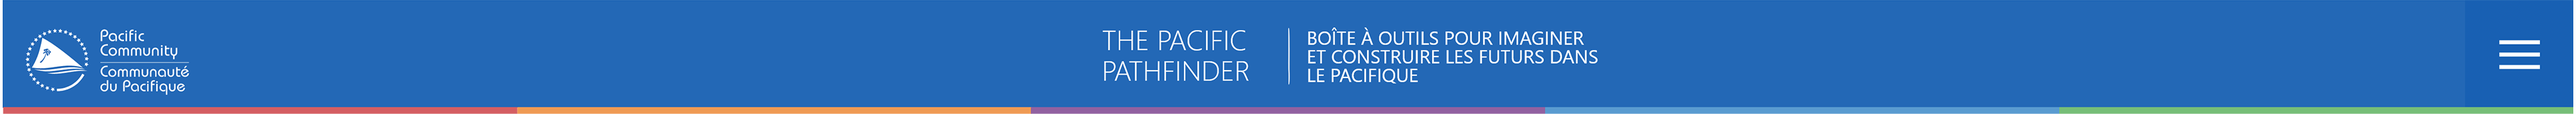
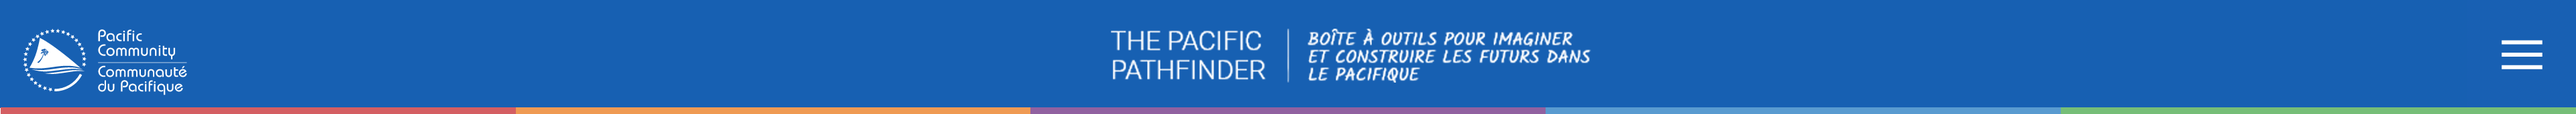
alterações navbar, intro, chap1

diff --git a/chap1/css/chapter-1-seven-case-study-2-1920-all-breakpoints.css b/chap1/css/chapter-1-seven-case-study-2-1920-all-breakpoints.css
@@ -139,7 +139,7 @@
   left: 602px;
   object-fit: cover;
   position: absolute;
-  top: 1091px;
+  top: 1100px;
   width: 46px;
 }
 
@@ -166,7 +166,7 @@
   left: 602px;
   object-fit: cover;
   position: absolute;
-  top: 1328px;
+  top: 1318px;
   width: 46px;
 }
 
@@ -175,7 +175,7 @@
   left: 602px;
   object-fit: cover;
   position: absolute;
-  top: 1396px;
+  top: 1381px;
   width: 46px;
 }
 
@@ -184,7 +184,7 @@
   left: 605px;
   object-fit: cover;
   position: absolute;
-  top: 1432px;
+  top: 1416px;
   width: 46px;
 }
 
@@ -193,7 +193,7 @@
   left: 602px;
   object-fit: cover;
   position: absolute;
-  top: 1290px;
+  top: 1280px;
   width: 46px;
 }
 
@@ -458,7 +458,7 @@
   left: 776px;
   object-fit: cover;
   position: absolute;
-  top: 1138px;
+  top: 1145px;
   width: 46px;
 }
 
@@ -467,7 +467,7 @@
   left: 776px;
   object-fit: cover;
   position: absolute;
-  top: 1237px;
+  top: 1230px;
   width: 46px;
 }
 
@@ -476,7 +476,7 @@
   left: 776px;
   object-fit: cover;
   position: absolute;
-  top: 1354px;
+  top: 1340px;
   width: 46px;
 }
 
@@ -485,7 +485,7 @@
   left: 776px;
   object-fit: cover;
   position: absolute;
-  top: 1514px;
+  top: 1467px;
   width: 46px;
 }
 
@@ -494,7 +494,7 @@
   left: 776px;
   object-fit: cover;
   position: absolute;
-  top: 1613px;
+  top: 1553px;
   width: 46px;
 }
 
@@ -503,7 +503,7 @@
   left: 779px;
   object-fit: cover;
   position: absolute;
-  top: 1699px;
+  top: 1615px;
   width: 46px;
 }
 
@@ -512,7 +512,7 @@
   left: 776px;
   object-fit: cover;
   position: absolute;
-  top: 1475px;
+  top: 1428px;
   width: 46px;
 }
 
@@ -527,7 +527,7 @@
 
 .chapter-1-seven-case-study-2-1920-all-breakpoints .grupo-2996 {
   height: 11px;
-  left: 797px;
+  left: 793px;
   object-fit: cover;
   position: absolute;
   top: 1970px;
@@ -539,7 +539,7 @@
   left: 793px;
   object-fit: cover;
   position: absolute;
-  top: 2077px;
+  top: 2040px;
   width: 11px;
 }
 
@@ -548,7 +548,7 @@
   left: 793px;
   object-fit: cover;
   position: absolute;
-  top: 2210px;
+  top: 2168px;
   width: 11px;
 }
 
@@ -557,7 +557,7 @@
   left: 793px;
   object-fit: cover;
   position: absolute;
-  top: 2036px;
+  top: 2008px;
   width: 11px;
 }
 
@@ -566,7 +566,7 @@
   left: 793px;
   object-fit: cover;
   position: absolute;
-  top: 2143px;
+  top: 2105px;
   width: 11px;
 }
 

diff --git a/navbar/menu-1920.html b/navbar/menu-1920.html
@@ -21,7 +21,7 @@
             <div class="retngulo-80"></div>
             <div class="overlap-group">
               <div class="the-pacific-pathfinder roboto-light-white-21px">THE PACIFIC <br />PATHFINDER</div>
-              <p class="a-toolkit-to-imagine gaegu-normal-white-17px">BOÎTE À OUTILS POUR IMAGINER<br />ET CONSTRUIRE LES FUTURS</p>
+              <p class="a-toolkit-to-imagine gaegu-normal-white-17px">BOÎTE À OUTILS POUR IMAGINER<br />ET CONSTRUIRE LES FUTURS DANS<br>LE PACIFIQUE</p>
               <div class="grupo-12">
                 <div class="grupo-11">
                   <div class="grupo-10"><img class="caminho-73" src="../img/caminho-73-11@1x.png" alt="Caminho 73" /></div>

diff --git a/navbar/menu-1280.html b/navbar/menu-1280.html
@@ -21,7 +21,7 @@
             <div class="retngulo-148503"></div>
             <div class="overlap-group">
               <div class="the-pacific-pathfinder roboto-light-white-13px">THE PACIFIC <br />PATHFINDER</div>
-              <p class="a-toolkit-to-imagine">BOÎTE À OUTILS POUR IMAGINER<br />ET CONSTRUIRE LES FUTURS</p>
+              <p class="a-toolkit-to-imagine">BOÎTE À OUTILS POUR IMAGINER<br />ET CONSTRUIRE LES FUTURS DANS<br>LE PACIFIQUE</p>
               <div class="grupo-12">
                 <div class="grupo-11">
                   <div class="grupo-10"><img class="caminho-73" src="../img/caminho-73-13@1x.png" alt="Caminho 73" /></div>

diff --git a/chap1/css/chapter-1-seven-375-all-breakpoints.css b/chap1/css/chapter-1-seven-375-all-breakpoints.css
@@ -1033,22 +1033,22 @@
 
 .chapter-1-seven-375-all-breakpoints .linha-139 {
   left: 26px;
-  top: 229px;
+  top: 190px;
 }
 
 .chapter-1-seven-375-all-breakpoints .linha-144 {
   left: 21px;
-  top: 522px;
+  top: 390px;
 }
 
 .chapter-1-seven-375-all-breakpoints .linha-145 {
   left: 26px;
-  top: 814px;
+  top: 614px;
 }
 
 .chapter-1-seven-375-all-breakpoints .linha-146 {
   left: 26px;
-  top: 1054px;
+  top: 794px;
 }
 
 .chapter-1-seven-375-all-breakpoints .grupo-144075 {

diff --git a/intro/intro.html b/intro/intro.html
@@ -3003,7 +3003,7 @@ de cartographier les facteurs susceptibles d’avoir un impact majeur sur l’av
                       </p>
                     </div>
                 </div>
-            </div>
+            
           </div>
           <div class="overlap-group9-2">
             <div class="grupo-143943-2"></div>

diff --git a/intro/css/intro-1920.css b/intro/css/intro-1920.css
@@ -12850,10 +12850,10 @@
 }
 
 .intro-375 .overlap-group9-2 {
-  height: 589px;
-  left:-9px;
-  top: 7174px;
-  position: absolute;
+  height: 593px;
+  margin-left: 2.0px;
+  margin-top: 272px;
+  position: relative;
   width: 353px;
 }
 

diff --git a/chap1/css/chapter-1-horizon-768-all-breakpoints.css b/chap1/css/chapter-1-horizon-768-all-breakpoints.css
@@ -1876,7 +1876,6 @@
   width: 60%;
   height: auto;
   z-index: 70;
-  border: 2px solid red;
 }
 
 @media screen and (max-width: 767px) {
